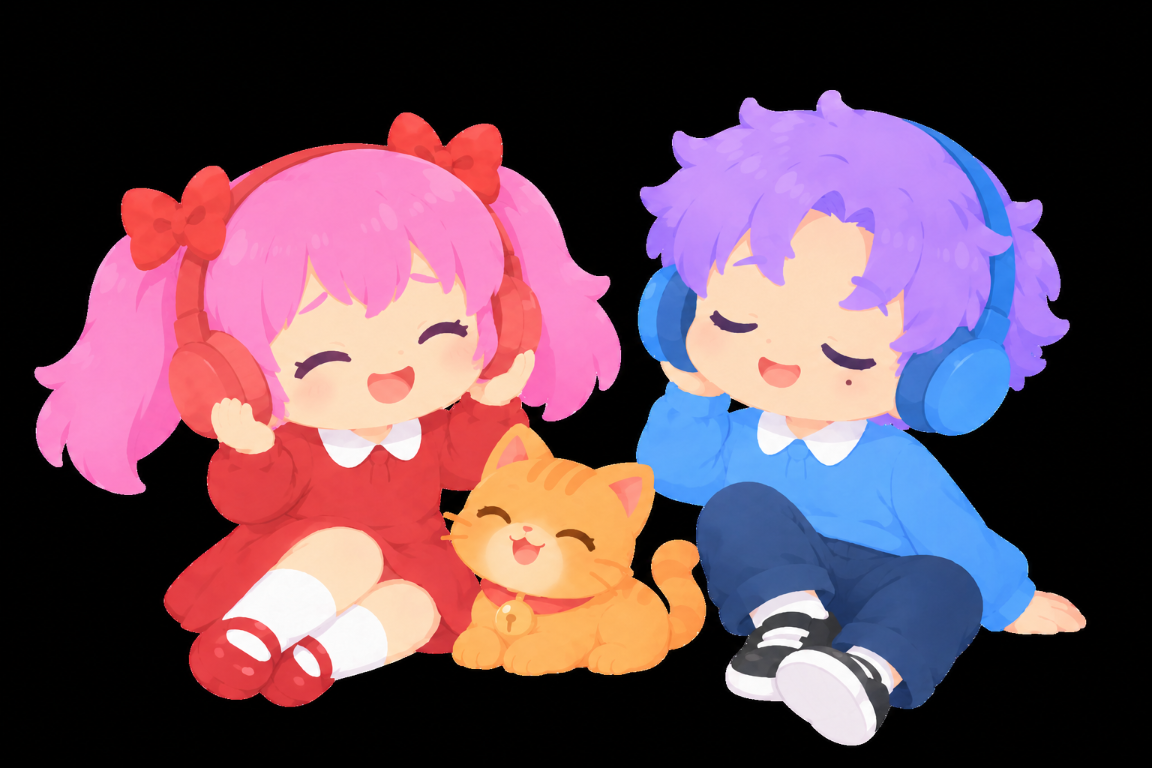
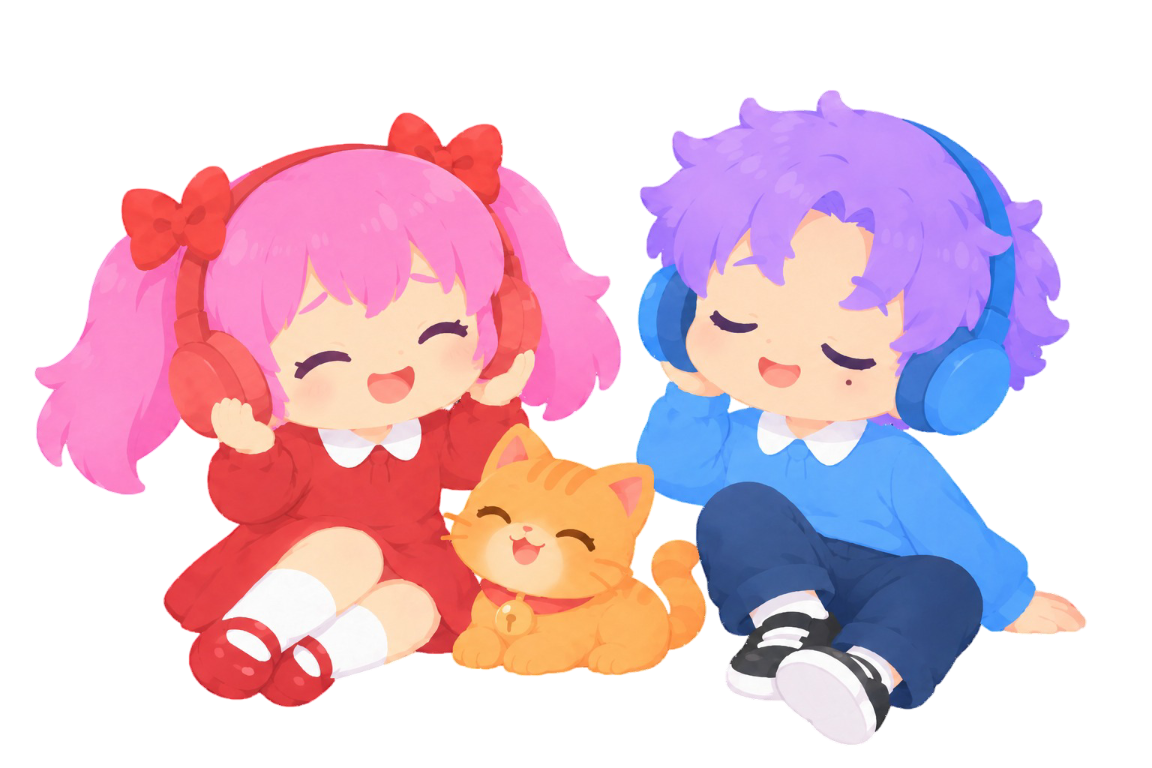
Add shop tabs and Error Code boss skin

diff --git a/app.js b/app.js
@@ -111,6 +111,8 @@ const BOSS_AVATARS = {
     alt: 'Boss Error Code berbentuk laptop',
   },
 };
+const ERROR_CODE_SKIN_ID = 'error-code';
+const ERROR_CODE_SKIN_COST = 500;
 
 const STARTER_STATE = {
   crystals: 2000,
@@ -127,6 +129,7 @@ const STARTER_STATE = {
   chestSession: null,
   bossHealth: 100,
   bossAvatar: 'paper-task',
+  ownedBossSkins: [],
   animeVideoAssets: {},
   strictMode: false
 };
@@ -159,6 +162,7 @@ let performanceHistoryPage = 0;
 let messagePage = 0;
 let taskListPages = { daily: 0, boss: 0 };
 let selectedBossAvatar = null;
+let shopActiveTab = 'diamonds';
 let analysisToken = 0;
 let taskPhotoData = '';
 let audioContext = null;
@@ -175,6 +179,11 @@ const FOCUS_AUDIO_SOURCES = {
 
 function focusTrackSource(name) {
   return FOCUS_AUDIO_SOURCES[name] || '';
+}
+
+function ownsBossSkin(skinId) {
+  return skinId !== ERROR_CODE_SKIN_ID
+    || (Array.isArray(state.ownedBossSkins) && state.ownedBossSkins.includes(skinId));
 }
 
 function stopWhiteNoise() {
@@ -653,7 +662,7 @@ function loadState() {
       localStorage.setItem(SHOP_INVENTORY_BALANCE_KEY, '1');
     }
 
-    return saved
+    const loadedState = saved
       ? {
           ...structuredClone(STARTER_STATE),
           ...saved,
@@ -662,6 +671,13 @@ function loadState() {
             : { bossHealth: Math.max(0, 100 - (saved.tasks || []).filter((task) => task.difficulty === 'hard' && task.done).length * 25) })
         }
       : structuredClone(STARTER_STATE);
+    loadedState.ownedBossSkins = Array.isArray(loadedState.ownedBossSkins)
+      ? loadedState.ownedBossSkins.filter((skinId) => skinId === ERROR_CODE_SKIN_ID)
+      : [];
+    if (loadedState.bossAvatar === ERROR_CODE_SKIN_ID && !loadedState.ownedBossSkins.includes(ERROR_CODE_SKIN_ID)) {
+      loadedState.bossAvatar = 'paper-task';
+    }
+    return loadedState;
   } catch {
     return structuredClone(STARTER_STATE);
   }
@@ -1308,7 +1324,8 @@ function appFrame(
 
   const focusModeHeader =
     page === 'focus-mode' ||
-    page === 'focus-session';
+    page === 'focus-session' ||
+    page === 'focus';
 
   const dailyPageHeader =
     page === 'daily';
@@ -1402,6 +1419,8 @@ function appFrame(
         page === 'focus-session'
           ? 'focus-mode'
           : page === 'focus-mode'
+            ? 'entertainment'
+          : page === 'focus'
             ? 'entertainment'
           : bossAvatarPageHeader
             ? 'boss'
@@ -1942,7 +1961,9 @@ function renderTaskPage(kind) {
     : 0;
 
   const hp = Math.max(0, Math.min(100, Number(state.bossHealth ?? 100)));
-  const activeBoss = BOSS_AVATARS[state.bossAvatar] || BOSS_AVATARS['paper-task'];
+  const activeBoss = ownsBossSkin(state.bossAvatar)
+    ? BOSS_AVATARS[state.bossAvatar] || BOSS_AVATARS['paper-task']
+    : BOSS_AVATARS['paper-task'];
 
   const content = `
     ${
@@ -2042,13 +2063,19 @@ function renderTaskPage(kind) {
 }
 
 function renderBossAvatarSelection() {
-  if (!Object.hasOwn(BOSS_AVATARS, selectedBossAvatar)) {
-    selectedBossAvatar = Object.hasOwn(BOSS_AVATARS, state.bossAvatar) ? state.bossAvatar : 'paper-task';
+  if (!Object.hasOwn(BOSS_AVATARS, selectedBossAvatar) || !ownsBossSkin(selectedBossAvatar)) {
+    selectedBossAvatar = ownsBossSkin(state.bossAvatar) && Object.hasOwn(BOSS_AVATARS, state.bossAvatar)
+      ? state.bossAvatar
+      : 'paper-task';
   }
-  const choices = Object.entries(BOSS_AVATARS).map(([id, boss]) => (
-    `<button class="boss-avatar-choice ${selectedBossAvatar === id ? 'is-selected' : ''}" type="button" data-action="select-boss-avatar" data-boss-avatar="${id}" aria-label="${escapeHtml(boss.name)}" aria-pressed="${selectedBossAvatar === id}"><img src="${boss.image}" alt="" /></button>`
-  )).join('');
-  const content = `<section class="boss-avatar-page"><h2>Pilih boss yang ingin kamu lawan</h2><p>Avatar boss bisa diganti kapan saja.</p><div class="boss-avatar-grid">${choices}</div><button class="button button-primary boss-avatar-confirm" type="button" data-action="confirm-boss-avatar">Konfirmasi</button></section>`;
+  const choices = Object.entries(BOSS_AVATARS).map(([id, boss]) => {
+    const locked = !ownsBossSkin(id);
+    return `<button class="boss-avatar-choice ${selectedBossAvatar === id ? 'is-selected' : ''}${locked ? ' is-locked' : ''}" type="button" data-action="select-boss-avatar" data-boss-avatar="${id}" aria-label="${escapeHtml(boss.name)}${locked ? ', terkunci' : ''}" aria-pressed="${selectedBossAvatar === id}" ${locked ? 'disabled' : ''}><img src="${boss.image}" alt="" />${locked ? '<span class="boss-avatar-lock">Terkunci</span>' : ''}</button>`;
+  }).join('');
+  const lockedSkinAction = ownsBossSkin(ERROR_CODE_SKIN_ID)
+    ? ''
+    : '<button class="button button-secondary boss-avatar-shop-link" type="button" data-nav="shop" data-shop-tab="skins">Beli skin Error Code — 500 berlian</button>';
+  const content = `<section class="boss-avatar-page"><h2>Pilih boss yang ingin kamu lawan</h2><p>Avatar boss bisa diganti kapan saja.</p><div class="boss-avatar-grid">${choices}</div>${lockedSkinAction}<button class="button button-primary boss-avatar-confirm" type="button" data-action="confirm-boss-avatar">Konfirmasi</button></section>`;
   app.innerHTML = appFrame('boss-select', content);
 }
 
@@ -2061,14 +2088,14 @@ function normalizeShowTitle(title) {
 
 function renderEntertainment() {
   const content = `
-    <button class="feature-card feature-focus" type="button" data-nav="focus-mode">
+    <button class="feature-card feature-focus entertainment-card entertainment-noise-card" type="button" data-nav="focus-mode">
       <div class="feature-art">
         <img src="${ASSETS.entertainmentWhiteNoise}" alt="Anak-anak mendengarkan white noise bersama kucing" />
       </div>
       <span class="feature-cta">White Noise</span>
     </button>
 
-    <button class="feature-card feature-focus" type="button" data-nav="focus">
+    <button class="feature-card feature-focus entertainment-card entertainment-watch-card" type="button" data-nav="focus">
       <div class="feature-art">
         <img src="${ASSETS.watchHero}" alt="Anak-anak menonton bersama kucing" />
       </div>
@@ -2364,8 +2391,8 @@ function renderFocusMode() {
   const content = `
     <section class="focus-mode-hero">
       <img
-        src="${ASSETS.artFocus}"
-        alt="Kudo belajar bersama"
+        src="${ASSETS.entertainmentWhiteNoise}"
+        alt="Anak-anak mendengarkan white noise bersama kucing"
       />
     </section>
 
@@ -2595,10 +2622,20 @@ function renderFocusSession() {
     );
 }
 function renderShop() {
+  const tabs = [
+    ['diamonds', 'Berlian'],
+    ['items', 'Item'],
+    ['skins', 'Skin'],
+  ];
+  if (!tabs.some(([key]) => key === shopActiveTab)) shopActiveTab = 'diamonds';
+  const sectionContent = {
+    diamonds: `<section class="shop-section"><h2>Pilih paket berlian</h2><div class="diamond-pack-grid"><button class="diamond-pack-card" type="button" data-action="buy-diamond-pack" data-amount="1200"><img src="${ASSETS.rewardDiamonds}" alt="" /><strong>1.200</strong><span>Rp 10.000</span></button><button class="diamond-pack-card" type="button" data-action="buy-diamond-pack" data-amount="2000"><img src="${ASSETS.rewardDiamonds}" alt="" /><strong>2.000</strong><span>Rp 15.000</span></button></div></section>`,
+    items: `<section class="shop-section shop-item-list"><h2>Item</h2><article class="shop-product-card"><img class="shop-product-art" src="${ASSETS.hourglass}" alt="" /><div class="shop-product-copy"><h3>Penambah waktu</h3><p>Tambahkan waktu mu dan taklukan tugasmu</p><button type="button" data-action="buy-hourglass" data-cost="50"><img src="${ASSETS.diamondItem}" alt="" /> 50</button></div></article><article class="shop-product-card"><img class="shop-product-art shop-ticket-art" src="${ASSETS.ticket}" alt="" /><div class="shop-product-copy"><h3>Tiket nonton</h3><p>Nikmati waktu istirahat dengan menonton yang menarik</p><button type="button" data-action="buy-chest" data-cost="100"><img src="${ASSETS.diamondItem}" alt="" /> 100</button></div></article></section>`,
+    skins: `<section class="shop-section"><h2>Skin Boss</h2><article class="shop-product-card shop-skin-card"><img class="shop-product-art" src="${BOSS_AVATARS[ERROR_CODE_SKIN_ID].image}" alt="${escapeHtml(BOSS_AVATARS[ERROR_CODE_SKIN_ID].alt)}" /><div class="shop-product-copy"><h3>Skin Error Code</h3><p>${ownsBossSkin(ERROR_CODE_SKIN_ID) ? 'Skin ini sudah kamu miliki.' : 'Buka skin ini untuk menggunakannya di Boss Fight.'}</p>${ownsBossSkin(ERROR_CODE_SKIN_ID) ? '<span class="shop-skin-owned">Dimiliki</span>' : `<button type="button" data-action="buy-boss-skin"><img src="${ASSETS.diamondItem}" alt="" /> ${ERROR_CODE_SKIN_COST}</button>`}</div></article></section>`,
+  };
   const content = `<section class="shop-feature-banner"><div class="shop-feature-copy"><h1>Fitur-fitur untuk membantumu</h1><p>Jelajahi fitur untuk mendapatkan item yang dapat membantumu.</p></div><img src="${ASSETS.shopFeature}" alt="Kudo membawa berlian dan penambah waktu" /></section>
-    <section class="shop-section"><h2>Berlian</h2><div class="diamond-pack-grid"><button class="diamond-pack-card" type="button" data-action="buy-diamond-pack" data-amount="1200"><img src="${ASSETS.rewardDiamonds}" alt="" /><strong>1.200</strong><span>Rp 10.000</span></button><button class="diamond-pack-card" type="button" data-action="buy-diamond-pack" data-amount="2000"><img src="${ASSETS.rewardDiamonds}" alt="" /><strong>2.000</strong><span>Rp 15.000</span></button></div></section>
-    <section class="shop-section"><h2>Penambah waktu</h2><article class="shop-product-card"><img class="shop-product-art" src="${ASSETS.hourglass}" alt="" /><div class="shop-product-copy"><h3>Penambah waktu</h3><p>Tambahkan waktu mu dan taklukan tugasmu</p><button type="button" data-action="buy-hourglass" data-cost="50"><img src="${ASSETS.diamondItem}" alt="" /> 50</button></div></article></section>
-    <section class="shop-section"><h2>Tiket nonton</h2><article class="shop-product-card"><img class="shop-product-art shop-ticket-art" src="${ASSETS.ticket}" alt="" /><div class="shop-product-copy"><h3>Tiket nonton</h3><p>Nikmati waktu istirahat dengan menonton yang menarik</p><button type="button" data-action="buy-chest" data-cost="100"><img src="${ASSETS.diamondItem}" alt="" /> 100</button></div></article></section>
+    <div class="shop-tabs" role="tablist" aria-label="Kategori toko">${tabs.map(([key, label]) => `<button class="shop-tab ${shopActiveTab === key ? 'is-active' : ''}" type="button" role="tab" data-action="shop-tab" data-shop-tab="${key}" aria-controls="shop-panel-${key}" aria-selected="${shopActiveTab === key}">${label}</button>`).join('')}</div>
+    ${tabs.map(([key]) => `<div id="shop-panel-${key}" role="tabpanel" class="shop-tab-panel" ${shopActiveTab === key ? '' : 'hidden'}>${sectionContent[key]}</div>`).join('')}
     ${toast ? `<p class="inline-notice" role="status">${escapeHtml(toast)}</p>` : ''}`;
   app.innerHTML = appFrame('shop', content);
 }
@@ -4465,6 +4502,9 @@ function modalView() {
     const hourglassItem = modal.itemKey === 'hourglasses';
     const itemImage = hourglassItem ? ASSETS.hourglass : ASSETS.ticket;
     body = `<div class="item-purchase-sheet"><h2>${hourglassItem ? 'Tambah waktu?' : 'Tambah Tiket?'}</h2><div class="item-purchase-card ${hourglassItem ? '' : 'is-ticket'}"><img src="${itemImage}" alt="" /><strong>1X</strong><span class="item-purchase-price"><img src="${ASSETS.diamondItem}" alt="" />${Number(modal.cost).toLocaleString('id-ID')}</span></div><button class="button button-primary item-purchase-confirm" type="button" data-action="confirm-shop-buy">Dapatkan ${hourglassItem ? 'penambah waktu' : 'tiket nonton'}</button><button class="item-purchase-decline" type="button" data-action="decline-shop-purchase">Tidak, terima kasih</button></div>`;
+  } else if (modal.type === 'boss-skin-purchase') {
+    const skin = BOSS_AVATARS[ERROR_CODE_SKIN_ID];
+    body = `<div class="item-purchase-sheet"><h2>Beli Skin Boss?</h2><div class="item-purchase-card shop-skin-purchase-card"><img src="${skin.image}" alt="${escapeHtml(skin.alt)}" /><strong>${escapeHtml(skin.name)}</strong><span class="item-purchase-price"><img src="${ASSETS.diamondItem}" alt="" />${ERROR_CODE_SKIN_COST}</span></div><button class="button button-primary item-purchase-confirm" type="button" data-action="confirm-boss-skin-buy">Beli skin</button><button class="item-purchase-decline" type="button" data-action="decline-shop-purchase">Tidak, terima kasih</button></div>`;
   } else if (modal.type === 'free-chest-offer') {
     body = `<div class="dialog result-dialog free-chest-offer-dialog"><img class="free-chest-offer-art" src="${ASSETS.shopFreeChestArt}" alt="Anak-anak dan kucing berharap" /><h2>Penawaran peti gratis</h2><p>Iklan belum tersedia.</p><button class="button button-primary" type="button" data-action="close-modal">Kembali</button></div>`;
   } else if (modal.type === 'show-unavailable') {
@@ -4497,6 +4537,8 @@ function modalView() {
     : modal.type === 'avatar-options'
       ? 'modal-overlay avatar-options-overlay'
     : modal.type === 'shop-item-purchase'
+      ? 'modal-overlay item-purchase-overlay'
+    : modal.type === 'boss-skin-purchase'
       ? 'modal-overlay item-purchase-overlay'
     : modal.type === 'focus-gate' || modal.type === 'anime-ticket-gate'
       ? 'modal-overlay focus-gate-overlay'
@@ -4634,6 +4676,14 @@ app.addEventListener('click', async (event) => {
   const button = target.closest('button');
   if (!button) return;
   if (button.dataset.go) return navigate(button.dataset.go);
+  if (button.dataset.shopTab && button.dataset.action !== 'shop-tab') {
+    shopActiveTab = button.dataset.shopTab;
+  }
+  if (button.dataset.action === 'shop-tab') {
+    shopActiveTab = button.dataset.shopTab;
+    renderShop();
+    return;
+  }
   if (button.dataset.action === 'show-watch-all') {
     const kind = button.dataset.nav === 'watch-anime' ? 'anime' : 'kdrama';
     watchFilters[kind] = { genre: 'Semuanya', type: 'Semuanya' };
@@ -4733,7 +4783,7 @@ app.addEventListener('click', async (event) => {
     return;
   }
   if (button.dataset.action === 'select-boss-avatar') {
-    if (!Object.hasOwn(BOSS_AVATARS, button.dataset.bossAvatar)) return;
+    if (!Object.hasOwn(BOSS_AVATARS, button.dataset.bossAvatar) || !ownsBossSkin(button.dataset.bossAvatar)) return;
     selectedBossAvatar = button.dataset.bossAvatar;
     app.querySelectorAll('.boss-avatar-choice').forEach((choice) => {
       const selected = choice.dataset.bossAvatar === selectedBossAvatar;
@@ -5367,7 +5417,7 @@ app.addEventListener('click', async (event) => {
       modal = null;
       break;
     case 'confirm-boss-avatar':
-      if (!Object.hasOwn(BOSS_AVATARS, selectedBossAvatar)) return;
+      if (!Object.hasOwn(BOSS_AVATARS, selectedBossAvatar) || !ownsBossSkin(selectedBossAvatar)) return;
       state.bossAvatar = selectedBossAvatar;
       selectedBossAvatar = null;
       persist();
@@ -5448,6 +5498,29 @@ app.addEventListener('click', async (event) => {
       break;
     case 'dismiss-focus-player': stopWhiteNoise(); state.activeFocus = null; focusMiniPlayerAvailable = false; persist(); break;
     case 'stop-focus': stopWhiteNoise(); state.activeFocus = null; focusMiniPlayerAvailable = false; persist(); modal = { type: 'focus-ended' }; break;
+    case 'buy-boss-skin':
+      if (ownsBossSkin(ERROR_CODE_SKIN_ID)) {
+        toast = 'Skin Error Code sudah kamu miliki.';
+      } else if (state.crystals < ERROR_CODE_SKIN_COST) {
+        modal = { type: 'shop-insufficient' };
+      } else {
+        modal = { type: 'boss-skin-purchase' };
+      }
+      break;
+    case 'confirm-boss-skin-buy':
+      if (ownsBossSkin(ERROR_CODE_SKIN_ID)) {
+        modal = null;
+        toast = 'Skin Error Code sudah kamu miliki.';
+      } else if (state.crystals < ERROR_CODE_SKIN_COST) {
+        modal = { type: 'shop-insufficient' };
+      } else {
+        state.crystals -= ERROR_CODE_SKIN_COST;
+        state.ownedBossSkins = [...new Set([...(Array.isArray(state.ownedBossSkins) ? state.ownedBossSkins : []), ERROR_CODE_SKIN_ID])];
+        persist();
+        modal = null;
+        toast = 'Skin Error Code berhasil dibeli.';
+      }
+      break;
     case 'buy-item-pack': case 'buy-hourglass': case 'buy-chest': {
       const itemKey = button.dataset.itemKey || (button.dataset.action === 'buy-hourglass' ? 'hourglasses' : 'chests');
       const quantity = Number(button.dataset.quantity || 1);

diff --git a/styles.css b/styles.css
@@ -357,6 +357,10 @@ button:focus-visible { outline: 3px solid #7775ff70; outline-offset: 3px; }
 .feature-art img { display: block; width: 100%; height: 100%; object-fit: contain; }
 .feature-hard .feature-art { top: -73px; width: 68%; height: 112px; transform: translateX(-50%); }
 .feature-focus .feature-art { transform: translateX(-50%); }
+.entertainment-card { min-height: 220px; margin-top: 0; overflow: hidden; }
+.entertainment-card + .entertainment-card { margin-top: 18px; }
+.entertainment-card .feature-art { top: 8px; width: 62%; height: 105px; }
+.entertainment-watch-card .feature-art { width: 80%; height: 145px; }
 .feature-info { padding: 3px 1px 0; }
 .feature-info h2 { margin: 0; color: #42455f; font-size: 13px; font-weight: 700; }
 .feature-info p { margin: 3px 0 0; color: #777985; font-size: 10px; }
@@ -677,6 +681,10 @@ button:focus-visible { outline: 3px solid #7775ff70; outline-offset: 3px; }
 .shop-feature-copy h1 { margin: 0 0 5px; color: #333652; font-size: 14px; font-weight: 700; line-height: 1.35; }
 .shop-feature-copy p { max-width: 145px; margin: 0; color: #bfbfbf; font-size: 10px; font-weight: 400; line-height: 1.45; }
 .shop-feature-banner > img { width: 53%; height: 120px; position: absolute; right: -3px; bottom: 0; object-fit: contain; object-position: center bottom; }
+.shop-tabs { height: 58px; margin: 16px 0 14px; display: grid; grid-template-columns: repeat(3, minmax(0, 1fr)); border-bottom: 1px solid #e7e7e7; }
+.shop-tab { min-width: 0; padding: 0 4px 10px; position: relative; border: 0; color: #bfbfbf; background: transparent; font: inherit; font-size: 14px; font-weight: 700; }
+.shop-tab.is-active { color: #333652; }
+.shop-tab.is-active::after { content: ''; height: 3px; position: absolute; right: 0; bottom: -1px; left: 0; background: #9992ff; }
 .shop-section { margin-top: 13px; }
 .shop-section h2 { margin: 0 0 9px; color: #333652; font-size: 14px; font-weight: 700; }
 .shop-offer-card, .shop-product-card { min-height: 110px; padding: 10px 12px; display: flex; align-items: center; gap: 10px; border: 2px solid #dedee2; border-radius: 13px; background: #fff; }
@@ -692,11 +700,18 @@ button:focus-visible { outline: 3px solid #7775ff70; outline-offset: 3px; }
 .diamond-pack-card strong { color: #333652; font-size: 12px; font-weight: 700; }
 .diamond-pack-card span { margin-top: 2px; color: #797dff; font-size: 12px; font-weight: 700; }
 .shop-product-card { min-height: 112px; }
+.shop-item-list .shop-product-card + .shop-product-card { margin-top: 10px; }
 .shop-product-art { width: 76px; height: 78px; flex: 0 0 auto; object-fit: contain; }
 .shop-ticket-art { width: 76px; height: 64px; }
 .shop-product-copy h3 { font-size: 12px; }
 .shop-product-copy button { margin-top: 5px; padding: 0; display: inline-flex; align-items: center; gap: 4px; border: 0; color: #797dff; background: transparent; font-size: 12px; font-weight: 700; }
 .shop-product-copy button img { width: 25px; height: 25px; object-fit: contain; }
+.shop-skin-card > .shop-product-art { width: 92px; height: 92px; }
+.shop-skin-owned { margin-top: 6px; color: #7775ff; font-size: 12px; font-weight: 700; }
+.boss-avatar-choice.is-locked { position: relative; border-color: #e4e3ed; background: #f5f5f8; cursor: not-allowed; }
+.boss-avatar-choice.is-locked img { opacity: .42; filter: grayscale(.65); }
+.boss-avatar-lock { position: absolute; inset: 0; display: grid; place-items: center; border-radius: inherit; color: #45475e; background: #ffffff9c; font-size: 12px; font-weight: 700; }
+.boss-avatar-shop-link { width: 100%; min-height: 42px; margin-top: 12px; padding: 8px 10px; font-size: 11px; }
 .modal-overlay.shop-purchase-overlay { position: fixed; inset: 0; padding: 0; display: flex; align-items: flex-end; justify-content: center; }
 .shop-purchase-sheet { width: min(100%, 412px); min-height: 0; padding: 20px 16px calc(18px + env(safe-area-inset-bottom, 0px)); display: flex; flex-direction: column; align-items: center; border-radius: 18px 18px 0 0; background: #fff; box-shadow: 0 -8px 28px #181b2318; animation: sheet-up .2s ease-out; }
 .shop-purchase-sheet h2 { margin: 0 0 12px; color: #41435d; font-size: 17px; font-weight: 700; text-align: center; }
